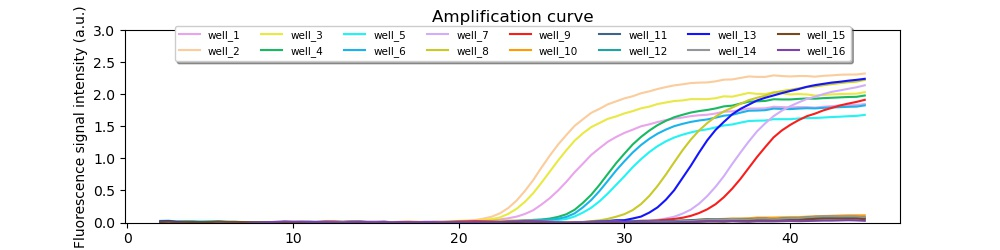
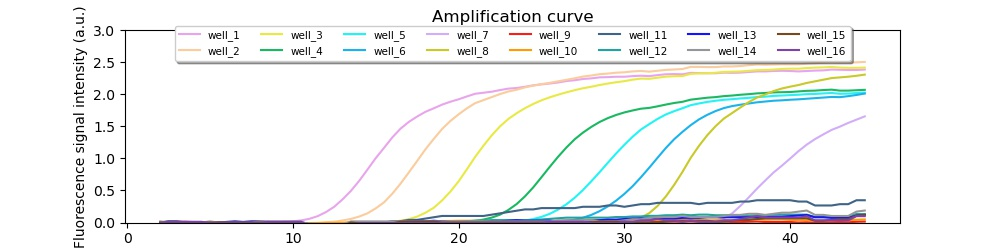
update

diff --git a/CT_Display_General.py b/CT_Display_General.py
@@ -710,7 +710,7 @@ class Ui_MainWindow(QtWidgets.QWidget):
         self.label_well8.setText(_translate("MainWindow", "well_8(A8)"))
         self.label_well16.setText(_translate("MainWindow", "well_16(B8)"))
         self.label_7.setText(_translate("MainWindow", "~"))
-        self.label_Timeofbackground.setText(_translate("MainWindow", "Time of background"))
+        self.label_Timeofbackground.setText(_translate("MainWindow", "Time of background(Min)"))
         self.label_Threshold.setText(_translate("MainWindow", "Threshold: N  * Std"))
         self.label_N.setText(_translate("MainWindow", "N :"))
         self.btn_openfile.setText(_translate("MainWindow", "Open"))

diff --git a/main.py b/main.py
@@ -1,6 +1,6 @@
 import sys
-# from CT_Display_General import *
-from CT_Display_Cali import *
+from CT_Display_General import *
+# from CT_Display_Cali import *
 if __name__ == '__main__':
     app = QApplication(sys.argv)
     mainWindows = QMainWindow()
